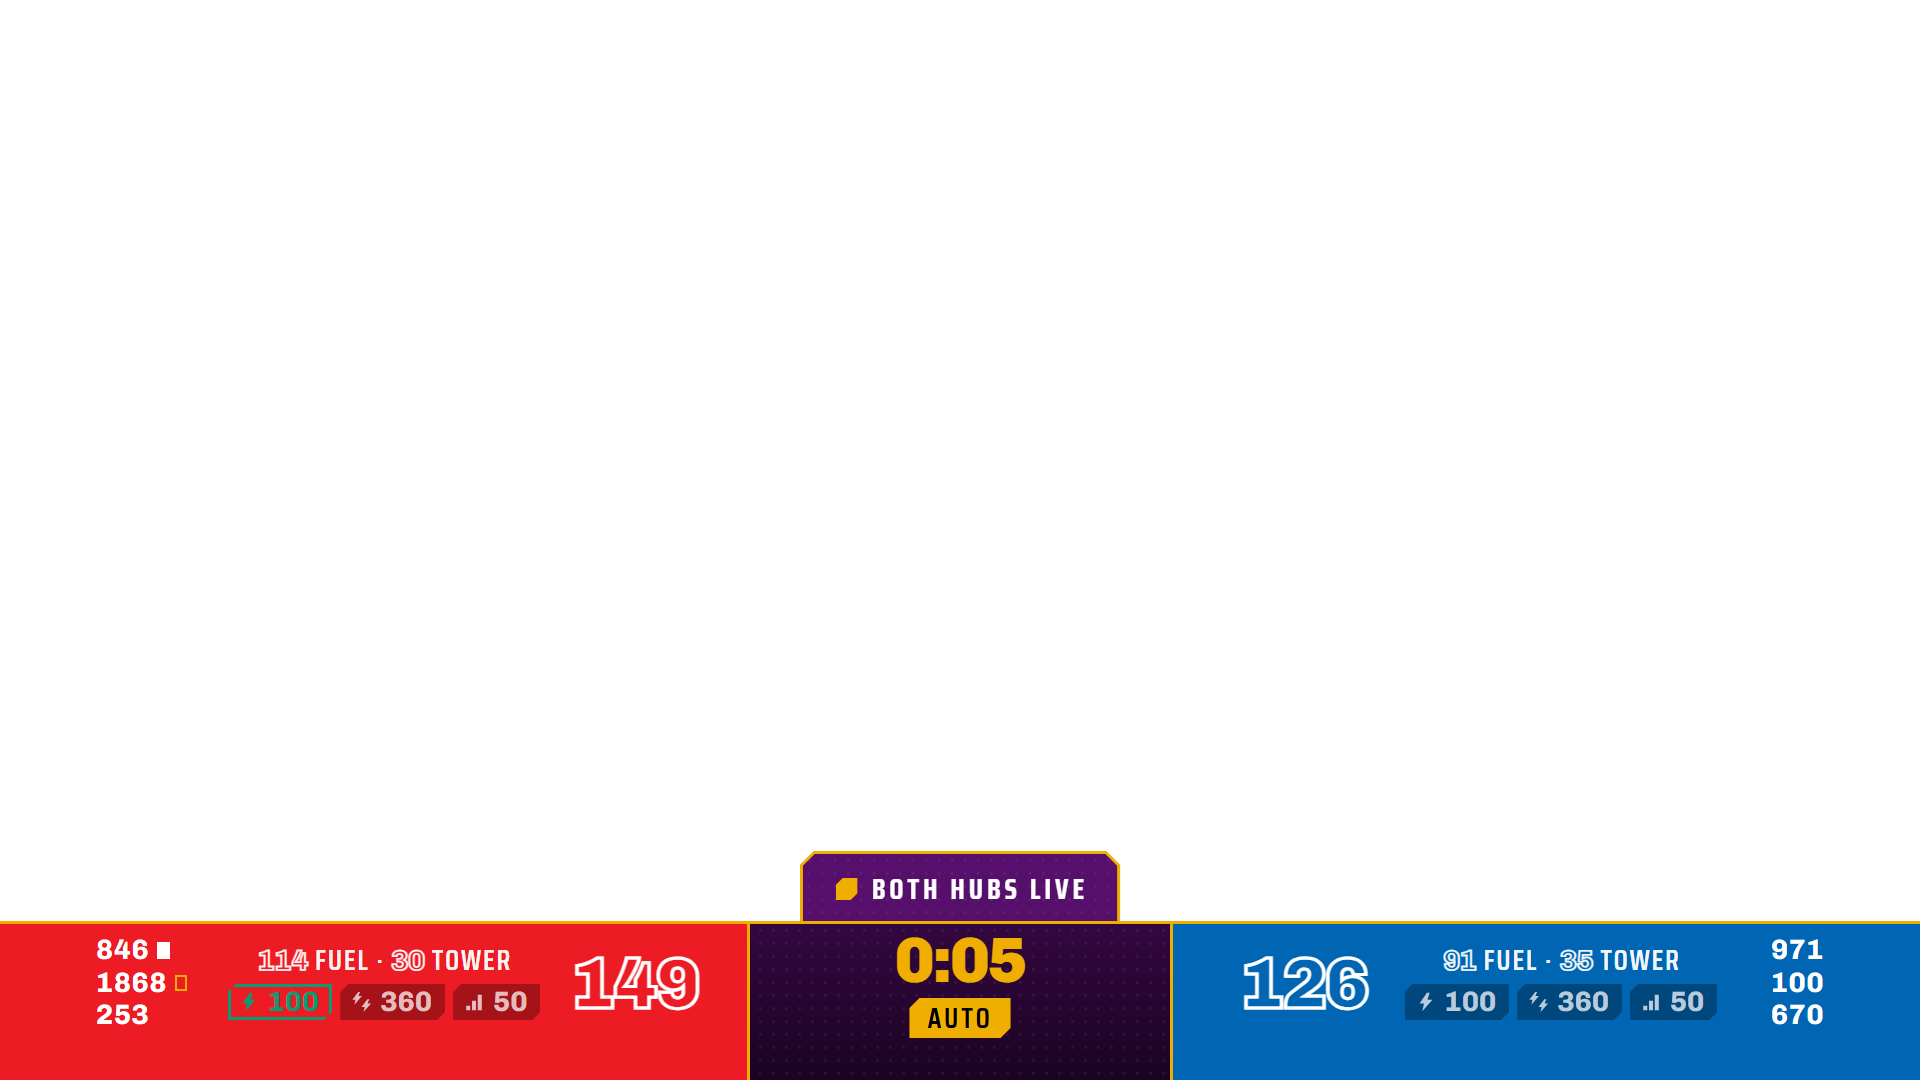
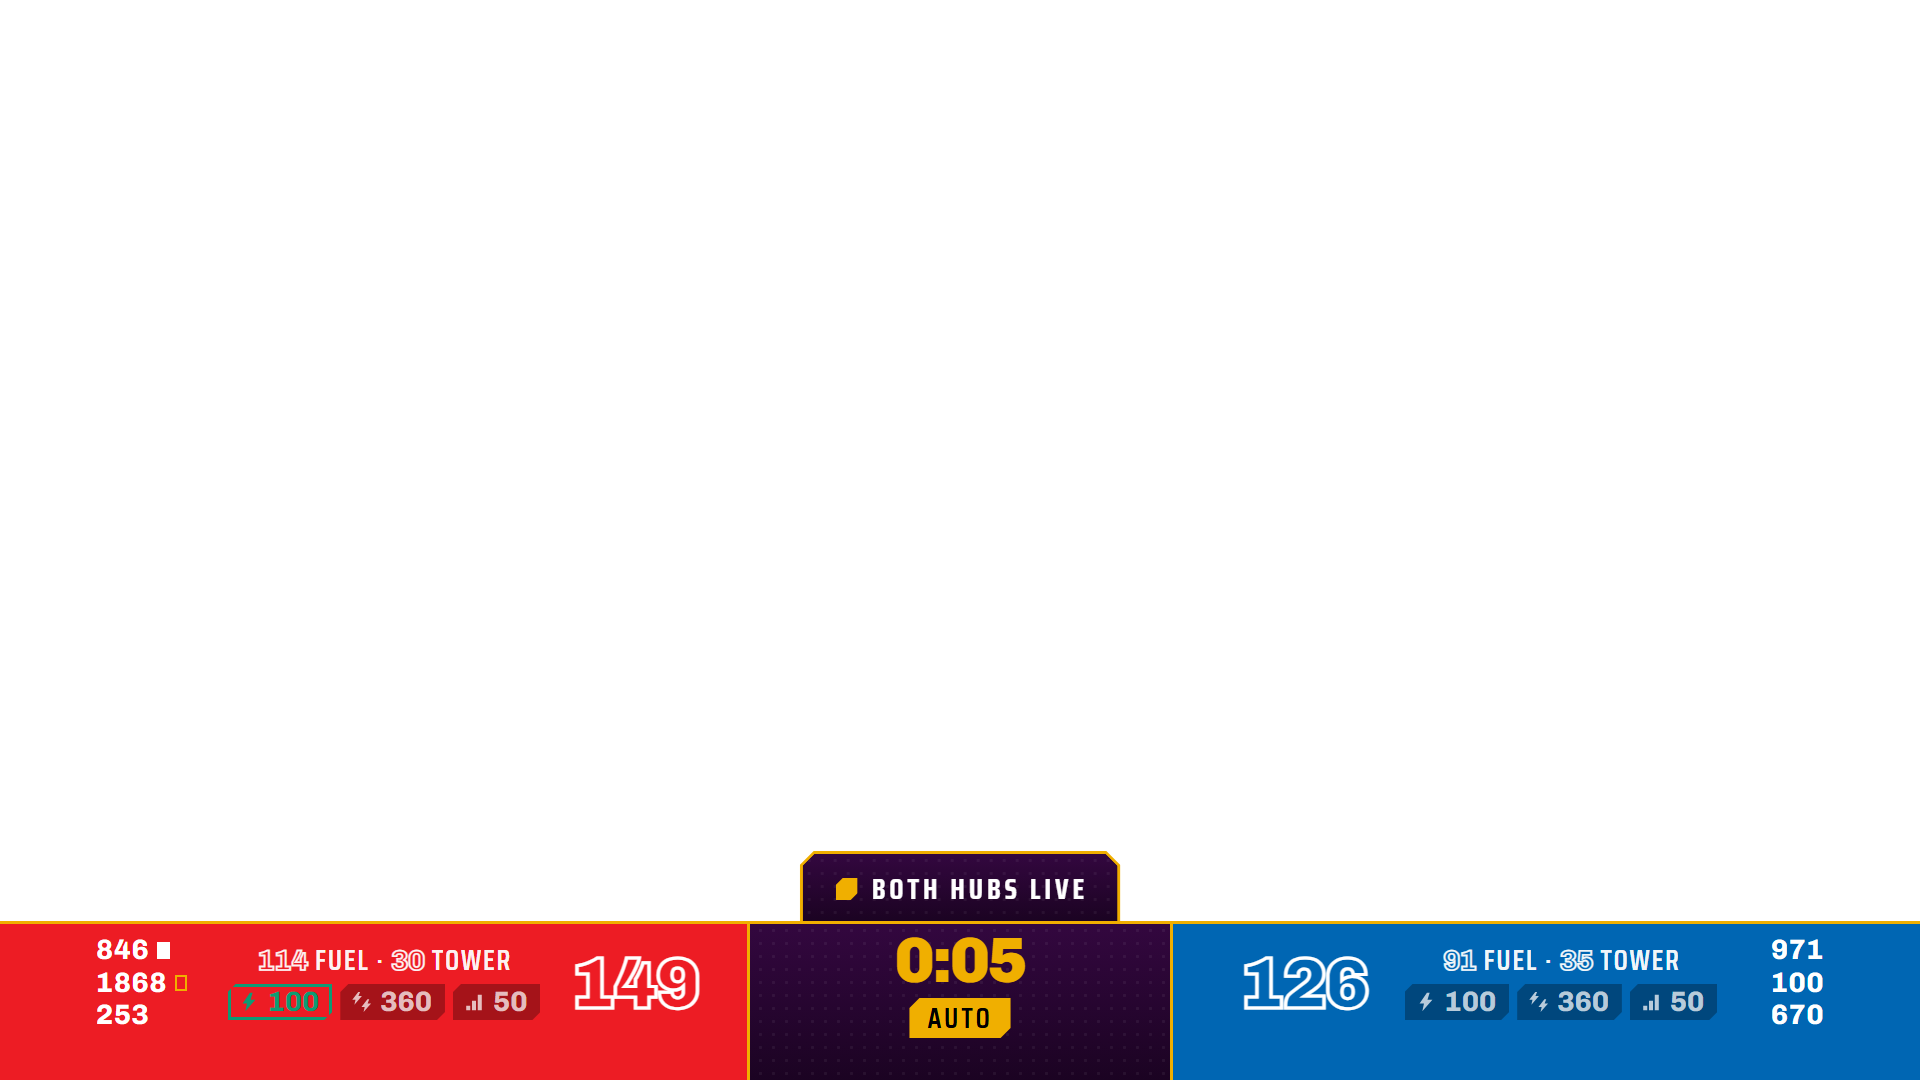
Black keys out, and four other things Cheesy Arena already knew
From the visual-language half of the compatibility review, which read the
arena's overlay CSS and display JS against ours.

PURE BLACK PUNCHES A HOLE IN THE GRAPHIC

Cheesy Arena ships a script whose entire job is this: a pre-event ImageMagick
pass replacing #000 with #222 across every downloaded team avatar, because a
luma downstream keyer cuts on brightness and black becomes transparent.

The desk has the same hazard over a much larger area and had no answer. A
robot photographed against a dark pit curtain carries a lot of near-black. A
sponsor wordmark arrives as black-on-transparent PNG, which is how brand
packs ship them, and is black end to end: the graphic whose entire purpose is
to show somebody's mark would have played the match through the letterforms
of their name.

Robot photos are floored on import now, alpha untouched, so a cutout's
transparent surround stays transparent and only pixels that are actually
DRAWN move. Sponsor logos and slides are dropped in by hand and never pass
through that path, so they get the arena's own answer: `npm run fix:logos`,
run on Friday once the logos are in. Safe to run twice, and it lists any SVG
it cannot fix, because an SVG's black is `fill="#000"` rather than a pixel.

Same number as the arena, 0x22: dark enough to still read as black in the
room, far enough off the floor that no keyer takes it.

ALLIANCE IDENTITY WAS THE LAST THING READ ON THE OVERVIEW

Both columns are the same purple with the same gold cap, and the only
[…]

Changed region(s): [[0.4062, 0.7639, 0.5938, 0.8556]]

diff --git a/apps/core/src/media.ts b/apps/core/src/media.ts
@@ -128,6 +128,62 @@ function hasTrns(buf: Buffer): boolean {
 type Sharp = (typeof import('sharp'))['default'];
 let sharpMod: Sharp | null | undefined;
 
+/**
+ * The darkest any opaque pixel is allowed to be once it is on air.
+ *
+ * A luma downstream keyer cuts on brightness, so PURE BLACK anywhere in a
+ * graphic becomes a hole with live field video showing through it. Cheesy
+ * Arena hits the same wall and answers it the same way: it ships a
+ * `fix_avatar_colors_for_overlay` script that does a pre-event ImageMagick
+ * pass replacing #000 with #222 across every downloaded team avatar.
+ *
+ * The desk has the identical hazard at far greater area. A robot photographed
+ * against a dark pit curtain carries a lot of near-black, and a sponsor
+ * wordmark delivered as black-on-transparent PNG, which is how most of them
+ * arrive, is ENTIRELY black. The sponsor case is the worse one: the graphic
+ * whose whole purpose is to show somebody's mark would have shown the match
+ * through the letterforms instead.
+ *
+ * 0x22 matches the arena's number. It is below --cg-purple-deep in luma, so
+ * it still reads as black in the room, and it is far enough off the floor
+ * that no sane keyer takes it.
+ */
+export const KEY_FLOOR = 0x22;
+
+/**
+ * Raise pure and near-pure black to KEY_FLOOR, leaving alpha alone.
+ *
+ * Only the RGB channels move, so a cut-out's transparent surround stays
+ * transparent: this is about what happens to pixels that are DRAWN, not about
+ * the shape of the cut. Applied at import rather than at render because it
+ * has to reach the file the browser source loads, and because doing it once
+ * per upload costs nothing where doing it per frame would.
+ */
+export async function floorBlack(sharp: Sharp, png: Buffer): Promise<Buffer> {
+  const { data, info } = await sharp(png)
+    .ensureAlpha()
+    .raw()
+    .toBuffer({ resolveWithObject: true });
+
+  let touched = 0;
+  for (let i = 0; i < data.length; i += 4) {
+    // Transparent pixels are not on air, whatever their RGB says.
+    if (data[i + 3] === 0) continue;
+    if (data[i]! < KEY_FLOOR && data[i + 1]! < KEY_FLOOR && data[i + 2]! < KEY_FLOOR) {
+      data[i] = Math.max(data[i]!, KEY_FLOOR);
+      data[i + 1] = Math.max(data[i + 1]!, KEY_FLOOR);
+      data[i + 2] = Math.max(data[i + 2]!, KEY_FLOOR);
+      touched++;
+    }
+  }
+  // Nothing to do is the common case for a well-lit cutout; skip the re-encode.
+  if (touched === 0) return png;
+
+  return await sharp(data, {
+    raw: { width: info.width, height: info.height, channels: 4 },
+  }).png().toBuffer();
+}
+
 async function getSharp(): Promise<Sharp | null> {
   if (sharpMod !== undefined) return sharpMod;
   try {
@@ -238,7 +294,10 @@ export class MediaLibrary {
       w = trimmed.info.width;
       h = trimmed.info.height;
 
-      const { perimeter, area } = await this.#opacity(sharp, trimmed.data);
+      // Pure black keys out. See KEY_FLOOR.
+      const keyed = await floorBlack(sharp, trimmed.data);
+
+      const { perimeter, area } = await this.#opacity(sharp, keyed);
       // Perimeter is the discriminating signal, not area. Plenty of FRC robots
       // are boxy enough to fill their own bounding box, so an area test flags
       // perfectly good cutouts. An *uncut* photo is the one whose edges are
@@ -253,10 +312,10 @@ export class MediaLibrary {
           'have been cut out. Worth a second look.');
       }
 
-      await writeFile(join(dir, `robot.v${version}.png`), trimmed.data);
+      await writeFile(join(dir, `robot.v${version}.png`), keyed);
       for (const width of WIDTHS) {
         if (width > w) continue;
-        await sharp(trimmed.data).resize({ width }).webp({ quality: 88 })
+        await sharp(keyed).resize({ width }).webp({ quality: 88 })
           .toFile(join(dir, `robot.v${version}@${width}.webp`));
       }
     } else {

diff --git a/surfaces/_shared/broadcast.css b/surfaces/_shared/broadcast.css
@@ -83,9 +83,13 @@
 .ov-robots { flex: 1; min-height: 0; display: grid;
   grid-template-rows: repeat(var(--n, 3), minmax(0, 1fr));
   gap: var(--gap); }
+/* Above the robots, not below: the band is the alliance, and it has to be
+   read before the teams rather than after them. The gold cap on top then
+   lines up with the gold cap on the header tick, so the column reads as one
+   object starting at its own edge. */
 .ov-band {
   position: relative;
-  margin-top: var(--gap); padding: 12px 0; text-align: center;
+  margin-bottom: var(--gap); padding: 12px 0; text-align: center;
   font-family: var(--font-cond); font-weight: 700;
   font-size: var(--t-label); letter-spacing: .2em; text-transform: uppercase;
   text-indent: .2em;
@@ -192,6 +196,18 @@
 /* ==========================================================================
    Score bar
    ========================================================================== */
+/* The scorebug SLIDES UP out of frame rather than blinking on.
+   It used to carry no entrance at all, so it appeared fully formed at the
+   sweep's midpoint: the overview-to-match transition, which is the most-used
+   transition of the weekend at six to eight an hour, was indistinguishable
+   from arcade-to-sponsor. The bar already sits at bottom:0, so the
+   nearest-edge rule in docs/08 picks the direction, and this animates
+   transform only, which is what keeps it cheap in a browser source. */
+@keyframes cg-bar-in { from { transform: translateY(100%); } to { transform: none; } }
+.screen[data-active] > .bar { animation: cg-bar-in var(--dur-in) var(--ease-enter) both; }
+@media (prefers-reduced-motion: reduce) {
+  .screen[data-active] > .bar { animation: none; }
+}
 .bar {
   position: absolute; left: 0; right: 0; bottom: 0; height: var(--bar-h);
   display: grid; grid-template-columns: 1fr 420px 1fr;
@@ -363,13 +379,27 @@
   letter-spacing: .14em; text-transform: uppercase; color: var(--cg-white);
   white-space: nowrap;
 }
+/* The SAME purple as the bar it grows out of, and the same gradient.
+   The tab's face was flat --cg-purple against the bar's
+   purple-lo-to-purple-deep, so the two visibly differed exactly where they
+   meet and the tab read as a chip sitting ON the scorebug rather than part
+   of it, which is the one thing the +3px offset above was reaching for. */
 .hub::before {
   content: ""; position: absolute; inset: 3px 3px 0;
-  background-color: var(--cg-purple);
-  background-image: var(--tex-perf); background-size: var(--tex-perf-size);
+  background-color: var(--cg-purple-deep);
+  background-image: var(--tex-perf),
+    linear-gradient(180deg, var(--cg-purple-lo), var(--cg-purple-deep));
+  background-size: var(--tex-perf-size), cover;
   --ch: 12px;
   clip-path: polygon(var(--ch) 0, calc(100% - var(--ch)) 0, 100% var(--ch),
                      100% 100%, 0 100%, 0 var(--ch));
+}
+/* Luma mode flattens the bar to a single fill; the tab has to follow it there
+   too, or the join reappears on the one output where it matters most. */
+:root[data-key="luma"] .hub::before {
+  background-color: var(--cg-purple);
+  background-image: var(--tex-perf);
+  background-size: var(--tex-perf-size);
 }
 .hub > * { position: relative; }
 /* The trailing letter-space widens the label's box past its ink, so the

diff --git a/apps/core/src/media-key.test.ts b/apps/core/src/media-key.test.ts
@@ -1,0 +1,61 @@
+import { test } from 'node:test';
+import assert from 'node:assert/strict';
+import { KEY_FLOOR, floorBlack } from './media.ts';
+
+/**
+ * Pure black keys out.
+ *
+ * A luma downstream keyer cuts on brightness, so black anywhere in a graphic
+ * becomes a hole with live field video showing through it. Cheesy Arena ships
+ * a whole script for this on its team avatars alone; the desk has the same
+ * hazard over a robot photo shot against a dark pit curtain, and over a
+ * sponsor wordmark, which arrives black-on-transparent and would have played
+ * the match through the letterforms of somebody's name.
+ */
+const sharp = await (async () => {
+  try { return (await import('sharp')).default; } catch { return null; }
+})();
+
+test('pure black is lifted off the floor, and alpha is left alone', { skip: !sharp }, async () => {
+  // Four pixels: pure black opaque, near-black opaque, pure black TRANSPARENT,
+  // and a mid grey that must not move.
+  const raw = Buffer.from([
+    0, 0, 0, 255,
+    5, 2, 9, 255,
+    0, 0, 0, 0,
+    128, 128, 128, 255,
+  ]);
+  const png = await sharp!(raw, { raw: { width: 2, height: 2, channels: 4 } })
+    .png().toBuffer();
+
+  const out = await floorBlack(sharp!, png);
+  const { data } = await sharp!(out).ensureAlpha().raw()
+    .toBuffer({ resolveWithObject: true });
+
+  assert.deepEqual([...data.subarray(0, 4)], [KEY_FLOOR, KEY_FLOOR, KEY_FLOOR, 255],
+    'pure black is raised to the floor');
+  assert.deepEqual([...data.subarray(4, 8)], [KEY_FLOOR, KEY_FLOOR, KEY_FLOOR, 255],
+    'near-black too: a keyer does not care about the last few levels');
+  assert.equal(data[11], 0,
+    'a transparent pixel stays transparent: this is about what is DRAWN');
+  assert.deepEqual([...data.subarray(12, 16)], [128, 128, 128, 255],
+    'and nothing else in the image moves');
+});
+
+test('an image already clear of the floor is returned untouched', { skip: !sharp }, async () => {
+  // The common case for a well-lit cutout. Re-encoding every upload for
+  // nothing would cost quality on a file that has no problem.
+  const raw = Buffer.from([200, 180, 160, 255, 90, 90, 90, 255]);
+  const png = await sharp!(raw, { raw: { width: 2, height: 1, channels: 4 } })
+    .png().toBuffer();
+  const out = await floorBlack(sharp!, png);
+  assert.equal(out, png, 'the same buffer, not a re-encode of it');
+});
+
+test('the floor is dark enough to still read as black in the room', () => {
+  // It has to survive the keyer AND still look like black on a projector.
+  // 0x22 is the number Cheesy Arena uses for the same job.
+  assert.equal(KEY_FLOOR, 0x22);
+  assert.ok(KEY_FLOOR > 0x10, 'clear of anything a keyer would take');
+  assert.ok(KEY_FLOOR < 0x30, 'and still black to the eye');
+});

diff --git a/surfaces/side/index.html b/surfaces/side/index.html
@@ -14,6 +14,14 @@ html {
   background-size: var(--tex-perf-size), var(--geo-size), cover;
   background-attachment: fixed;
   min-height: 100%;
+  /* This one is driven by a stick PC nobody touches again after Friday, so
+     without this the mouse pointer sits parked on the pit TV all weekend.
+     Cheesy Arena does the same on its own queueing display for the same
+     reason. Selection and scrollbars go with it: there is no user here. */
+  cursor: none;
+  overflow: hidden;
+  -webkit-user-select: none;
+  user-select: none;
 }
 
 /* Venue side screens: pit TVs and the queueing area, read from 20-60ft.
@@ -40,6 +48,22 @@ html {
 
 .panel-screen { position: absolute; inset: 0; display: none; padding: var(--safe-y) var(--safe-x); }
 .panel-screen[data-active] { display: flex; flex-direction: column; }
+
+/* An entrance, because this is the one surface where nobody has audio and
+   nobody is looking directly at the screen.
+   The panes used to swap on bare display:none/flex, so the pit TV and the
+   queueing screen changed content every 14 seconds with no cue whatsoever.
+   docs/08 derives the travel for this exact surface: 320px, or nobody in the
+   back half of the gym registers the change. Transform only, so it stays
+   cheap on a stick PC. */
+@keyframes cg-side-in {
+  from { opacity: 0; transform: translateY(var(--travel-lg)); }
+  to   { opacity: 1; transform: none; }
+}
+.panel-screen[data-active] { animation: cg-side-in var(--dur-in) var(--ease-enter) both; }
+@media (prefers-reduced-motion: reduce) {
+  .panel-screen[data-active] { animation: none; }
+}
 
 /* Line heights are pinned rather than left to the font's default leading.
    At 72-84px a default 1.4 line box adds ~90px of invisible padding to the
@@ -758,6 +782,10 @@ fetch('/api/urls').then(r => r.json()).then(({ base }) => {
 }).catch(() => { /* QR is a bonus, never a blocker */ });
 
 // A new match loading is the one thing worth interrupting the rotation for.
+// restart() removes and re-adds data-active to re-trigger the entrance. Until
+// this pane HAD an entrance, that was a one-frame flicker and nothing else:
+// the single moment this surface deliberately tries to draw attention, on the
+// screen a queueing line is watching for exactly that, produced no cue at all.
 desk.on('match.loaded', () => {
   show(true);
   restart($('scr-deck'), 'data-active');

diff --git a/surfaces/program/index.html b/surfaces/program/index.html
@@ -19,17 +19,22 @@
       <div class="ov-tick"></div>
     </div>
     <div class="ov-body">
+      <!-- The band leads. It used to sit UNDER the robots, so the reading
+           order on the screen whose entire job is to say who is playing whom
+           was number, name, and only then which alliance. Both columns are
+           the same purple with the same gold cap; the 60px band was the only
+           alliance signal and it was the last thing read. -->
       <div class="ov-side ov-side--red">
-        <div class="ov-robots stagger" id="redRobots"></div>
         <div class="ov-band">Red Alliance</div>
+        <div class="ov-robots stagger" id="redRobots"></div>
       </div>
       <div class="ov-center">
         <div class="ov-logo">CALGAMES<br>2026</div>
         <div class="ov-vs">VS</div>
       </div>
       <div class="ov-side ov-side--blue">
-        <div class="ov-robots stagger" id="blueRobots"></div>
         <div class="ov-band">Blue Alliance</div>
+        <div class="ov-robots stagger" id="blueRobots"></div>
       </div>
     </div>
   </section>

diff --git a/docs/07-team-media.md b/docs/07-team-media.md
@@ -10,6 +10,36 @@ weekend.
 
 ---
 
+## Pure black keys out
+
+A luma downstream keyer cuts on brightness, so black anywhere in a graphic
+becomes a hole with live field video showing through it. A robot photographed
+against a dark pit curtain carries a lot of near-black; a sponsor wordmark
+delivered as black-on-transparent PNG, which is how most of them arrive, is
+black end to end.
+
+Cheesy Arena hits the same wall and ships a script for it
+(`fix_avatar_colors_for_overlay`, an ImageMagick pass replacing `#000` with
+`#222` across every downloaded team avatar). The desk does the same thing in
+two places:
+
+- **Robot photos** are floored on import. Nothing to remember: upload as usual
+  and any pixel darker than `#222` comes up to it, alpha untouched, so a
+  cutout's transparent surround stays transparent.
+- **Sponsor logos and slides** are dropped into `media/` by hand and never pass
+  through that path, so they need the pre-event pass:
+
+      npm run fix:logos
+
+  Run it on Friday once the logos are in and before doors. It is safe to run
+  twice. An SVG cannot be fixed this way, because its black is `fill="#000"`
+  rather than a pixel; the tool lists any it finds so somebody can change them
+  by hand or re-export a PNG.
+
+`#222` is dark enough to still read as black in the room and far enough off the
+floor that no sane keyer takes it.
+
+
 ## The screen
 
 ```
